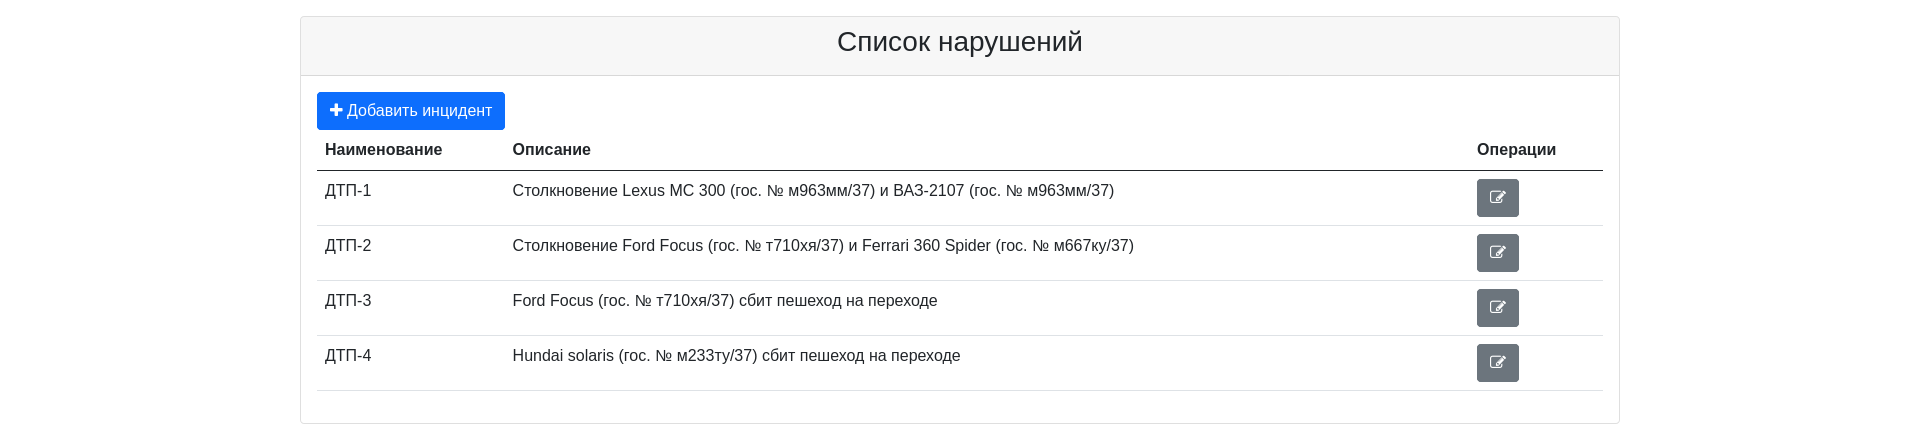
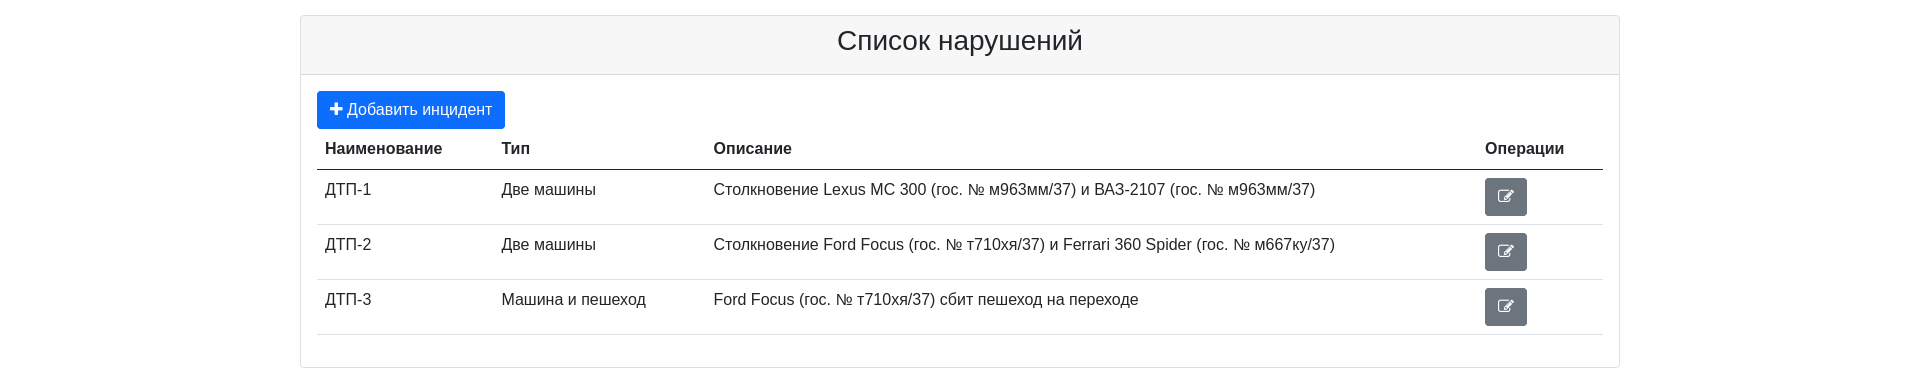
4. Form с композиционным объектом [#305522]

diff --git a/src/main/webapp/WEB-INF/template/css/main.css b/src/main/webapp/WEB-INF/template/css/main.css
@@ -1,3 +1,3 @@
 .big-col {
-    width: 75%;
+    width: 60%;
 }

diff --git a/src/main/java/ru/job4j/accident/services/AccidentService.java b/src/main/java/ru/job4j/accident/services/AccidentService.java
@@ -4,6 +4,7 @@ import org.springframework.beans.factory.annotation.Autowired;
 import org.springframework.stereotype.Service;
 import ru.job4j.accident.models.Accident;
 import ru.job4j.accident.repositories.MemAccidentRepository;
+import ru.job4j.accident.repositories.MemAccidentTypeRepository;
 
 import java.util.Collection;
 
@@ -13,8 +14,28 @@ public class AccidentService {
 	private final MemAccidentRepository repository;
 
 	@Autowired
-	public AccidentService(MemAccidentRepository repo) {
+	public AccidentService(MemAccidentRepository repo, MemAccidentTypeRepository typeRepo) {
 		repository = repo;
+		repository.save(Accident.of(
+			"ДТП-1",
+			"Столкновение Lexus MC 300 (гос. № м963мм/37) "
+				+ "и ВАЗ-2107 (гос. № м963мм/37)",
+			"г. Иваново, перекресток ул. Лежневской и ул. 10 Августа",
+			typeRepo.findById(1)
+		));
+		repository.save(Accident.of(
+			"ДТП-2",
+			"Столкновение Ford Focus (гос. № т710хя/37) "
+				+ "и Ferrari 360 Spider (гос. № м667ку/37)",
+			"г. Иваново, перекресток ул. Лежневской и пр. Строителей",
+			typeRepo.findById(1)
+		));
+		repository.save(Accident.of(
+			"ДТП-3",
+			"Ford Focus (гос. № т710хя/37) сбит пешеход на переходе",
+			"г. Иваново, перекресток ул. Ташкентской и пр. Строителей",
+			typeRepo.findById(2)
+		));
 	}
 
 	public Collection<Accident> findAll() {

diff --git a/src/main/java/ru/job4j/accident/repositories/MemAccidentTypeRepository.java b/src/main/java/ru/job4j/accident/repositories/MemAccidentTypeRepository.java
@@ -1,7 +1,6 @@
 package ru.job4j.accident.repositories;
 
 import org.springframework.stereotype.Repository;
-import ru.job4j.accident.models.Accident;
 import ru.job4j.accident.models.AccidentType;
 
 import java.util.Collection;
@@ -10,30 +9,36 @@ import java.util.Map;
 import java.util.concurrent.atomic.AtomicInteger;
 
 @Repository
-public class MemAccidentRepository {
+public class MemAccidentTypeRepository {
 
-	private Map<Integer, Accident> records = new HashMap<>();
+	private Map<Integer, AccidentType> records = new HashMap<>();
 	private AtomicInteger generator = new AtomicInteger(0);
 
-	private void add(Accident value) {
+	public MemAccidentTypeRepository() {
+		add(AccidentType.of("Две машины"));
+		add(AccidentType.of("Машина и пешеход"));
+		add(AccidentType.of("Машина и велосипед"));
+	}
+
+	private void add(AccidentType value) {
 		value.setId(generator.incrementAndGet());
 		records.putIfAbsent(value.getId(), value);
 	}
 
-	private void update(int id, Accident value) {
+	private void update(int id, AccidentType value) {
 		value.setId(id);
 		records.put(id, value);
 	}
 
-	public Collection<Accident> findAll() {
+	public Collection<AccidentType> findAll() {
 		return records.values();
 	}
 
-	public Accident findById(int id) {
+	public AccidentType findById(int id) {
 		return records.get(id);
 	}
 
-	public void save(Accident value) {
+	public void save(AccidentType value) {
 		if (value.getId() == 0) {
 			add(value);
 		} else {

diff --git a/src/main/java/ru/job4j/accident/controllers/AccidentController.java b/src/main/java/ru/job4j/accident/controllers/AccidentController.java
@@ -4,15 +4,22 @@ import org.springframework.stereotype.Controller;
 import org.springframework.ui.Model;
 import org.springframework.web.bind.annotation.*;
 import ru.job4j.accident.models.Accident;
+import ru.job4j.accident.models.AccidentType;
 import ru.job4j.accident.services.AccidentService;
+import ru.job4j.accident.services.AccidentTypeService;
+
+import java.util.ArrayList;
+import java.util.List;
 
 @Controller
 public class AccidentController {
 
 	private final AccidentService service;
+	private final AccidentTypeService typeService;
 
-	public AccidentController(AccidentService s) {
+	public AccidentController(AccidentService s, AccidentTypeService ts) {
 		service = s;
+		typeService = ts;
 	}
 
 	@GetMapping("/")
@@ -23,12 +30,14 @@ public class AccidentController {
 
 	@GetMapping("/edit/{id}")
 	public String accidentEdit(Model model, @PathVariable(name = "id") int accidentId) {
+		model.addAttribute("types", typeService.findAll());
 		model.addAttribute("accident", service.findById(accidentId));
 		return "accident/edit";
 	}
 
 	@GetMapping("/create")
 	public String accidentCreate(Model model) {
+		model.addAttribute("types", typeService.findAll());
 		return "accident/edit";
 	}
 

diff --git a/src/main/java/ru/job4j/accident/models/Accident.java b/src/main/java/ru/job4j/accident/models/Accident.java
@@ -8,12 +8,14 @@ public class Accident {
 	private String name;
 	private String text;
 	private String address;
+	private AccidentType type;
 
-	public static Accident of(String aName, String aText, String aAddress) {
+	public static Accident of(String aName, String aText, String aAddress, AccidentType aType) {
 		Accident result = new Accident();
 		result.name = aName;
 		result.text = aText;
 		result.address = aAddress;
+		result.type = aType;
 		return result;
 	}
 
@@ -49,6 +51,14 @@ public class Accident {
 		this.address = address;
 	}
 
+	public AccidentType getType() {
+		return type;
+	}
+
+	public void setType(AccidentType type) {
+		this.type = type;
+	}
+
 	@Override
 	public boolean equals(Object o) {
 		if (this == o) {
@@ -58,14 +68,11 @@ public class Accident {
 			return false;
 		}
 		Accident accident = (Accident) o;
-		return
-				id == accident.id
-				&& Objects.equals(name, accident.name)
-				&& Objects.equals(address, accident.address);
+		return id == accident.id;
 	}
 
 	@Override
 	public int hashCode() {
-		return Objects.hash(id, name, address);
+		return Objects.hash(id);
 	}
 }

diff --git a/src/main/java/ru/job4j/accident/services/AccidentTypeService.java b/src/main/java/ru/job4j/accident/services/AccidentTypeService.java
@@ -1,0 +1,35 @@
+package ru.job4j.accident.services;
+
+import org.springframework.beans.factory.annotation.Autowired;
+import org.springframework.stereotype.Service;
+import ru.job4j.accident.models.AccidentType;
+import ru.job4j.accident.repositories.MemAccidentTypeRepository;
+
+import java.util.Collection;
+
+@Service
+public class AccidentTypeService {
+
+	private final MemAccidentTypeRepository repository;
+
+	@Autowired
+	public AccidentTypeService(MemAccidentTypeRepository repo) {
+		repository = repo;
+	}
+
+	public Collection<AccidentType> findAll() {
+		return repository.findAll();
+	}
+
+	public AccidentType findById(int id) {
+		return repository.findById(id);
+	}
+
+	public void save(AccidentType value) {
+		repository.save(value);
+	}
+
+	public void deleteById(int id) {
+		repository.deleteById(id);
+	}
+}

diff --git a/src/main/java/ru/job4j/accident/models/AccidentType.java b/src/main/java/ru/job4j/accident/models/AccidentType.java
@@ -1,0 +1,48 @@
+package ru.job4j.accident.models;
+
+import java.util.Objects;
+
+public class AccidentType {
+
+	private int id;
+	private String name;
+
+	public static AccidentType of(String name) {
+		AccidentType type = new AccidentType();
+		type.name = name;
+		return type;
+	}
+
+	public int getId() {
+		return id;
+	}
+
+	public void setId(int id) {
+		this.id = id;
+	}
+
+	public String getName() {
+		return name;
+	}
+
+	public void setName(String name) {
+		this.name = name;
+	}
+
+	@Override
+	public boolean equals(Object o) {
+		if (this == o) {
+			return true;
+		}
+		if (o == null || getClass() != o.getClass()) {
+			return false;
+		}
+		AccidentType that = (AccidentType) o;
+		return id == that.id;
+	}
+
+	@Override
+	public int hashCode() {
+		return Objects.hash(id);
+	}
+}
